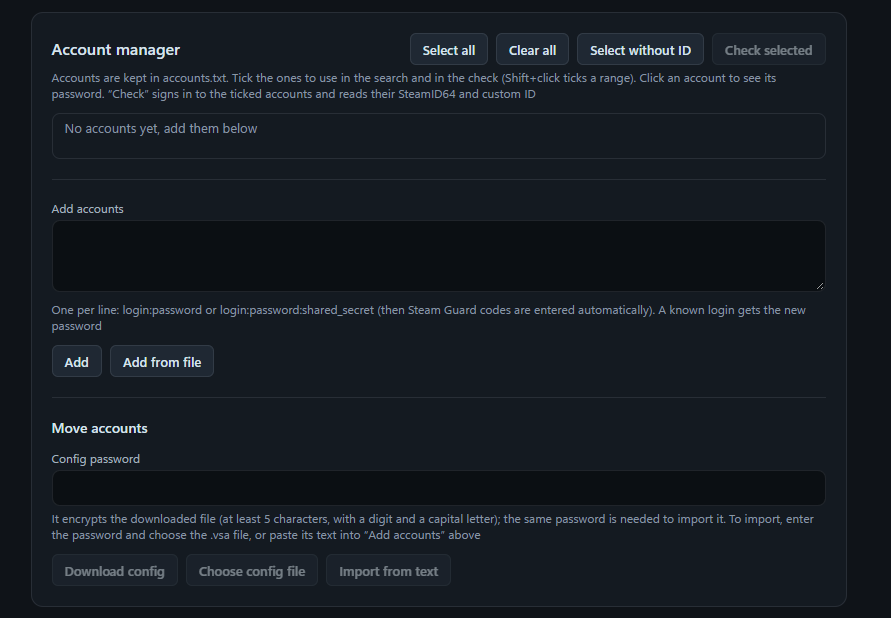
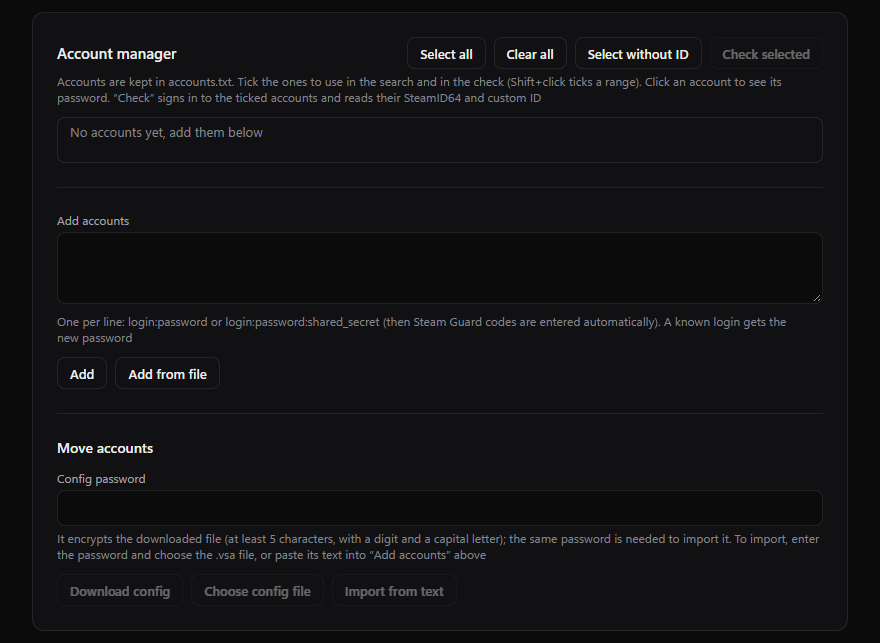
v1.0.3

diff --git a/main.js b/main.js
@@ -13,7 +13,7 @@ let win;
 app.whenReady().then(() => {
   win = new BrowserWindow({
     width: 960, height: 900, minWidth: 720, minHeight: 640,
-    autoHideMenuBar: true, backgroundColor: '#0f1318', icon: path.join(__dirname, 'build', 'icon.png'),
+    autoHideMenuBar: true, backgroundColor: '#0b0b0c', icon: path.join(__dirname, 'build', 'icon.png'),
     webPreferences: { preload: path.join(__dirname, 'preload.js') },
   });
   win.loadFile('index.html');

diff --git a/README.md b/README.md
@@ -62,7 +62,7 @@ MIT, see [LICENSE](LICENSE).
 
 <a id="ru"></a>
 
-# IDManager for Steam (по-русски)
+# IDManager for Steam
 
 [English](#idmanager-for-steam) · [Русский](#ru)
 
